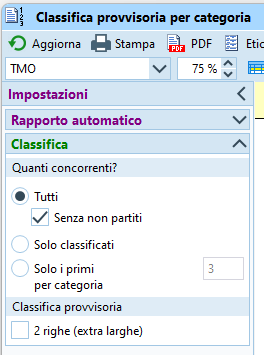
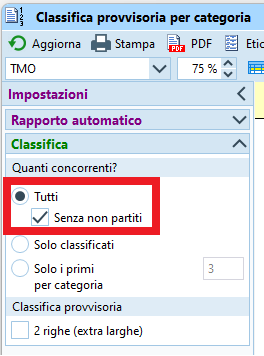
Corretto impostazione NON PARTITI per classifiche

Changed region(s): [[0.0, 0.4944, 0.6061, 0.6798]]

diff --git a/docs/software/oe12/classifiche.md b/docs/software/oe12/classifiche.md
@@ -11,8 +11,8 @@ In caso di problemi con la rete internet o con le TV, come alternativa le classi
   
 1. Nel menu `Classifiche` seleziona `Tempi intermedi > Categorie`.  
 ![Classifica tempi intermedi per categoria](inc/classifiche_menu_intermedi.png)
-1. Nelle `Impostazioni` a sinistra, nella sezione `Classifica`, seleziona  tutti i concorrenti, ma senza i non partiti.  
-![Impostazioni](inc/classifiche_intermedi_impostazioni.png)
+1. Nelle `Impostazioni` a sinistra, nella sezione `Classifica`, seleziona  tutti i concorrenti, **CON** i non partiti.  
+![Impostazioni](inc/classifiche_intermedi_impostazioni_con_non_partiti.png)
 1. Seleziona le categorie da esportare nel pannello di selezione in basso (di regola tutte).
 1. Assicurati che i tempi siano mostrati nel formato `OO:MM:SS`.  
 Altrimenti, imposta il formato nel menu `ingranaggio` in alto a destra.
@@ -59,14 +59,15 @@ Altrimenti, imposta il formato nel menu `ingranaggio` in alto a destra.
 ## Classifiche provvisorie
 
 Le classifiche provvisorie sono classifiche pubblicate durante la gara, quando non tutti i concorrenti sono giunti all'arrivo. Nella testata di ogni categoria vengono indicati il numero di concorrenti arrivati rispetto al numero di concorrenti iscritti (ad es. `(13/18)`).  
-Ai TMO, queste classifiche vengono di regola mostrate sulle TV al centro gara e caricate in internet sul sito [PicoEvents](http://results.picoevents.ch/).  
-Come alternativa in caso di problemi con le TV vengono stampate a intervalli regolari e appese al centro gara.
+Ai TMO, di regola queste classifiche non servono in quanto vengono esportate quelle con tempi intermedi mostrate sulle TV al centro gara e caricate in internet sul sito [PicoEvents](http://results.picoevents.ch/), come descritto nel paragrafo [Classifiche TV / online](#classifiche-tv-online).  
+  
+In caso di problemi con le TV o in mancanza di rete internet con conseguente impossibilità di caricare le classifiche online, vengono stampate a intervalli regolari e appese al centro gara le classifiche provvisorie.
     
 1. Nel menu `Classifiche` seleziona `Classifica provvisoria > Categorie`.  
 ![Classifica provvisoria per categoria](inc/classifiche_menu_provvisoria.png)
 1. Nel menu a tendina in alto, seleziona `TMO` come modello del rapporto.  
 ![Modello del rapporto](inc/classifiche_provvisoria_report.png)
-1. Nelle `Impostazioni` a sinistra, nella sezione `Classifica`, seleziona  tutti i concorrenti, ma senza i non partiti.  
+1. Nelle `Impostazioni` a sinistra, nella sezione `Classifica`, seleziona  tutti i concorrenti, **SENZA** i non partiti.  
 ![Impostazioni](inc/classifiche_provvisoria_impostazioni.png)
 1. Seleziona le categorie da stampare nel pannello di selezione in basso (di regola tutte).
 1. Assicurati che i tempi siano mostrati nel formato `OO:MM:SS`.  
@@ -138,7 +139,7 @@ Esporta le classifiche in file CSV da utilizzare per le classifiche TMS, per il 
 1. Nel menu `Classifiche`, seleziona `Tempi intermedi > Categorie`.  
 ![Intermedi per categoria](inc/classifiche_menu_intermedi.png)
 1. Nelle `Impostazioni` a sinistra, nella sezione `Classifica`, seleziona  tutti i concorrenti, ma senza i non partiti.  
-![Impostazioni](inc/classifiche_intermedi_impostazioni.png)
+![Impostazioni](inc/classifiche_intermedi_impostazioni_senza_non_partiti.png)
 1. Seleziona le categorie da esportare nel pannello di selezione in basso (di regola tutte).
 1. Seleziona `Esporta`.  
 ![Menu esporta](inc/classifiche_intermedi_menu_esporta.png)
@@ -181,7 +182,7 @@ Crea e stampa la classifica per il Trofeo Miglior Società ticinese (TMS).
 Premi `OK`.  
 **Nota**: ignora la versione di OL-Einzel...  
 ![TMS Help](inc/tms_help.png)
-1. Nella finestra delle impostazioni, seleziona il file esportato in [Esportazione classifiche](#esportazione-classifiche).
+1. Nella finestra delle impostazioni, seleziona il file esportato in [Esportazione classifiche](#esportazione-classifiche).  
 **Nota**: i campi Gara, Luogo e Data sono utilizzati nell'intestazione della classifica.  
 ![TMS Input](inc/tms_input.png)
 1. Appare una finestra con tre tab: una con la classifica TMS, l'altra con la classifica di tutte le categorie e i punti assegnati ad ogni concorrente, e una con la classifica per la premiazione.   
@@ -234,7 +235,8 @@ Pubblica la classifica sul sito della federazione svizzera (Swiss Orienteering /
         ![Solv Webformular](inc/solv_results_webformular.png)
 
 
-    - Nel campo `Ranglisten-File` seleziona il file delle classifiche esportato in [Esportazione classifiche](#esportazione-classifiche).
+    - Nel campo `Ranglisten-File` seleziona il file delle classifiche esportato in [Esportazione classifiche](#esportazione-classifiche).  
+    **Nota**: non utilizzare il file esportato per le TV e le classifiche su PicoEvents, in quanto per il SOLV dobbiamo escludere i non partiti.
     - Nel campo `Nullzeit` imposta l'ora zero come impostata nella gara (vedi `Gara > Impostazioni`).
     - Il testo nel campo `Hinweistext` appare in cima alla classifica di ogni categoria. Questo è utile per comunicare ad esempio delle decisioni della giuria.
     - Nel campo `format` seleziona `OE12/OE2010/OLEinzel (CSV)`.